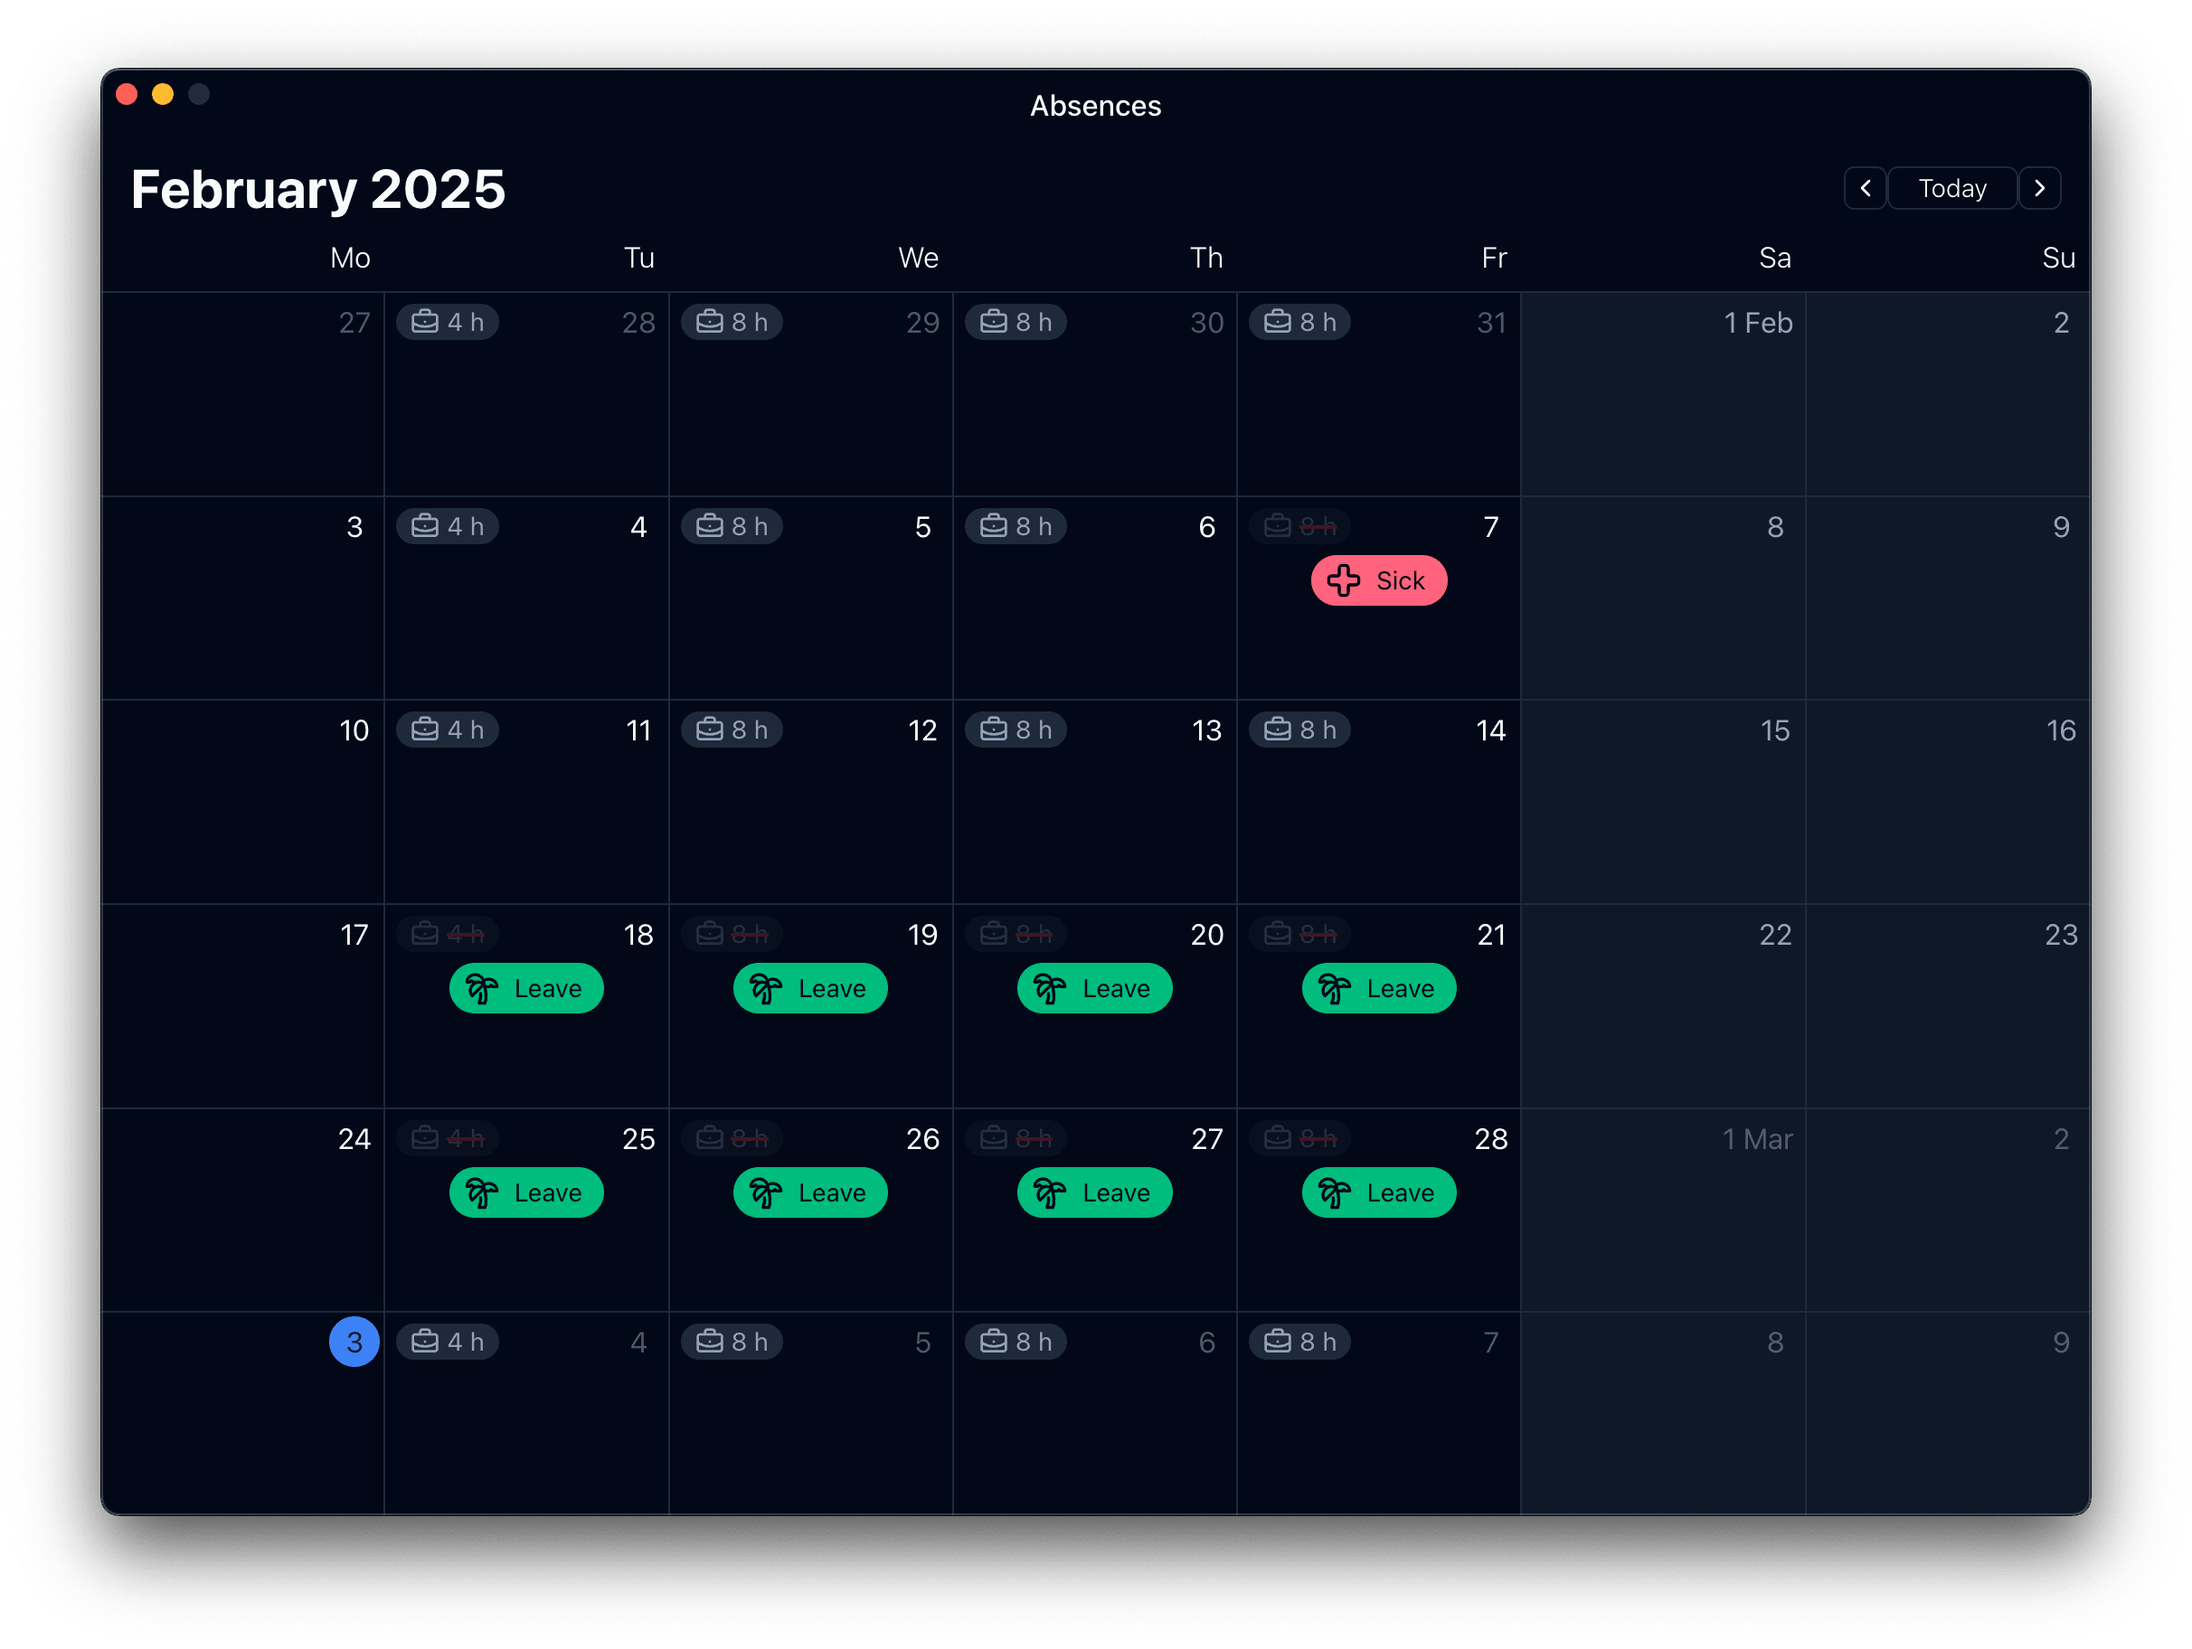
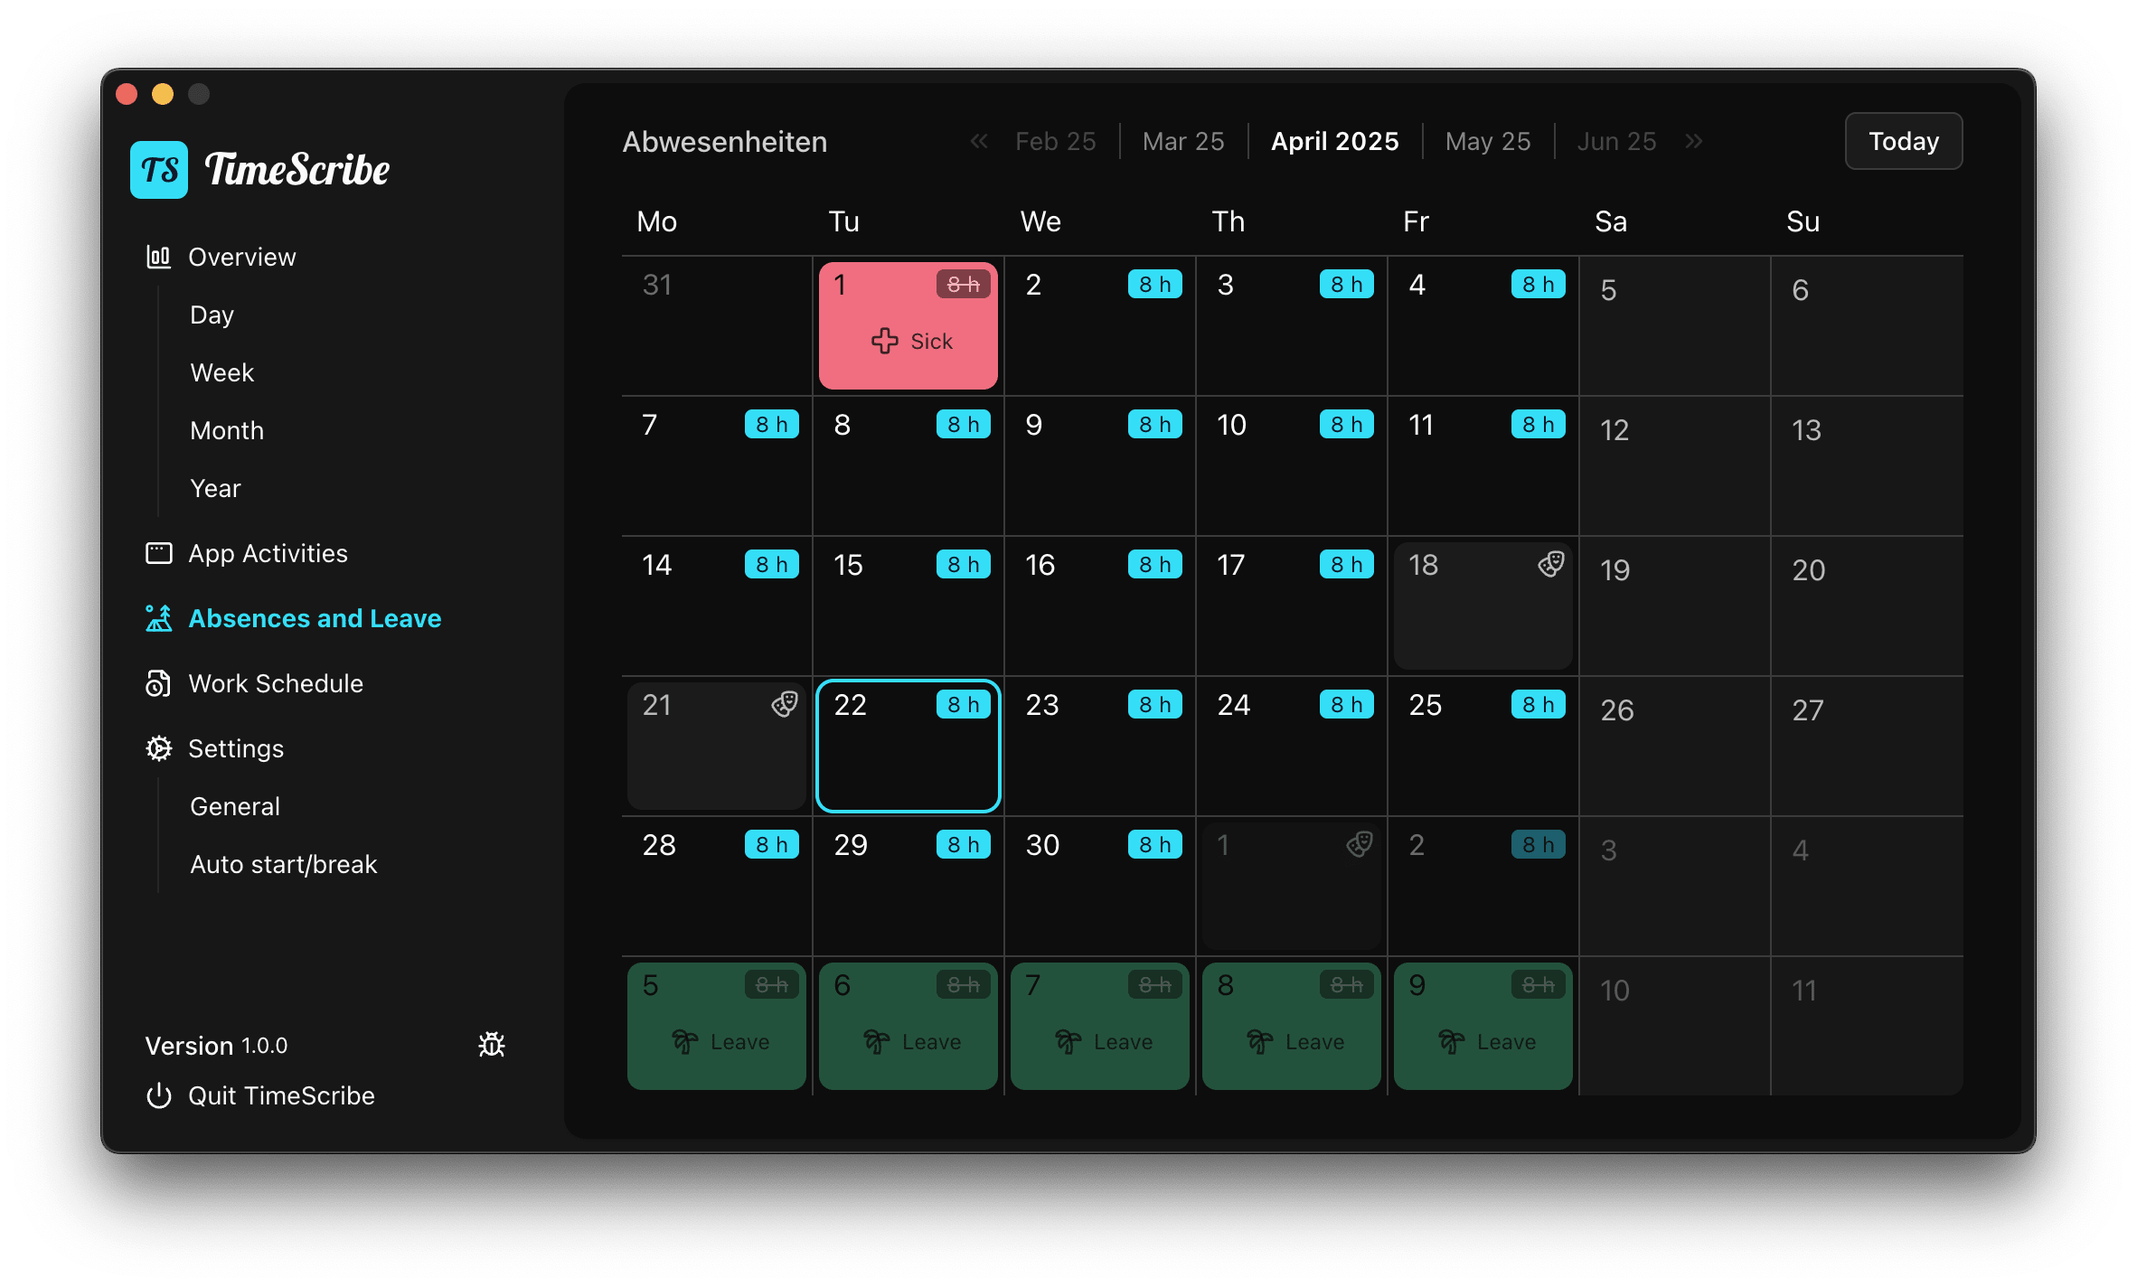
Update README visuals and add new illustrative assets
Revised section titles and updated images in the README for clarity and improved presentation. Added new assets, including app icon, "App Activity," and "Automatic Start/Pause" illustrations, to enhance user understanding. Simplified and replaced outdated visuals for better alignment with the app's features.

diff --git a/README.md b/README.md
@@ -1,5 +1,7 @@
 [!["Buy Me A Coffee"](https://www.buymeacoffee.com/assets/img/custom_images/orange_img.png)](https://www.buymeacoffee.com/kc7qv2k6jqr)
 
+<img style="max-width: 120px" alt="TimeScribe" src="https://github.com/WINBIGFOX/Stempeluhr/blob/main/.github/images/icon.png?raw=true">
+
 # TimeScribe
 
 ## Description
@@ -25,47 +27,39 @@ Ideal for anyone looking to track their work hours efficiently and effortlessly!
 <br/>
 </p>
 
-### Weekly Overview
+### Time Tracking
 
 <p align="center">
 <picture>
-  <source media="(prefers-color-scheme: dark)" srcset="https://github.com/WINBIGFOX/Stempeluhr/blob/main/.github/images/overview_en_dark.webp?raw=true">
-  <img alt="Weekly Overview" src="https://github.com/WINBIGFOX/Stempeluhr/blob/main/.github/images/overview_en_light.webp?raw=true">
+  <source media="(prefers-color-scheme: dark)" srcset="https://github.com/WINBIGFOX/Stempeluhr/blob/main/.github/images/dayview_en_dark.webp?raw=true">
+  <img alt="Time Tracking" src="https://github.com/WINBIGFOX/Stempeluhr/blob/main/.github/images/dayview_en_light.webp?raw=true">
 </picture>
 </p>
 
-### Detail View
+### App Activity
 
 <p align="center">
 <picture >
-  <source media="(prefers-color-scheme: dark)" srcset="https://github.com/WINBIGFOX/Stempeluhr/blob/main/.github/images/dayview_en_dark.webp?raw=true">
-  <img alt="Detail View" src="https://github.com/WINBIGFOX/Stempeluhr/blob/main/.github/images/dayview_en_light.webp?raw=true">
+  <source media="(prefers-color-scheme: dark)" srcset="https://github.com/WINBIGFOX/Stempeluhr/blob/main/.github/images/app_activity_en_dark.webp?raw=true">
+  <img alt="App Activity" src="https://github.com/WINBIGFOX/Stempeluhr/blob/main/.github/images/app_activity_en_light.webp?raw=true">
 </picture>
 </p>
 
-### Absence Calendar
+### Absence Planning
 
 <p align="center">
 <picture >
   <source media="(prefers-color-scheme: dark)" srcset="https://github.com/WINBIGFOX/Stempeluhr/blob/main/.github/images/absences_en_dark.webp?raw=true">
-  <img alt="Absence Calendar" src="https://github.com/WINBIGFOX/Stempeluhr/blob/main/.github/images/absences_en_light.webp?raw=true">
+  <img alt="Absence Planning" src="https://github.com/WINBIGFOX/Stempeluhr/blob/main/.github/images/absences_en_light.webp?raw=true">
 </picture>
 </p>
 
-### Settings
+### Automatic Start/Pause
 
 <p align="center">
 <picture >
-  <source media="(prefers-color-scheme: dark)" srcset="https://github.com/WINBIGFOX/Stempeluhr/blob/main/.github/images/settings1_en_dark.webp?raw=true">
-  <img width="32%" alt="Settings" src="https://github.com/WINBIGFOX/Stempeluhr/blob/main/.github/images/settings1_en_light.webp?raw=true">
-</picture>
-<picture >
-  <source media="(prefers-color-scheme: dark)" srcset="https://github.com/WINBIGFOX/Stempeluhr/blob/main/.github/images/settings2_en_dark.webp?raw=true">
-  <img width="32%" alt="Settings" src="https://github.com/WINBIGFOX/Stempeluhr/blob/main/.github/images/settings2_en_light.webp?raw=true">
-</picture>
-<picture >
-  <source media="(prefers-color-scheme: dark)" srcset="https://github.com/WINBIGFOX/Stempeluhr/blob/main/.github/images/settings3_en_dark.webp?raw=true">
-  <img width="32%" alt="Settings" src="https://github.com/WINBIGFOX/Stempeluhr/blob/main/.github/images/settings3_en_light.webp?raw=true">
+  <source media="(prefers-color-scheme: dark)" srcset="https://github.com/WINBIGFOX/Stempeluhr/blob/main/.github/images/start_break_en_dark.webp?raw=true">
+  <img alt="Automatic Start/Pause" src="https://github.com/WINBIGFOX/Stempeluhr/blob/main/.github/images/start_break_en_light.webp?raw=true">
 </picture>
 </p>
 
